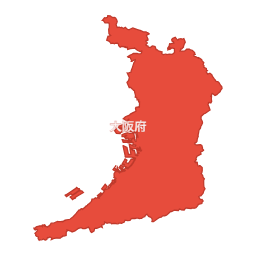
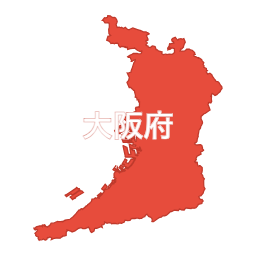
Add text size option and update default text size
- Add --text-size option to customize text size (default: 0.12)
- Update default text size from 0.048 to 0.12 (2x larger)
- Create generate-samples.sh script for automated sample generation
- Regenerate all sample icons with larger text:
  - Default style: Hokkaido, Tokyo, Osaka
  - Text-free version: Tokyo
  - Custom colors: blue Hokkaido, red Osaka

🤖 Generated with [Claude Code](https://claude.ai/code)

Changed region(s): [[0.3125, 0.4375, 0.6875, 0.5625]]

diff --git a/src/index.js b/src/index.js
@@ -14,6 +14,7 @@ class PrefectureIconGenerator {
       faceColor: options.faceColor || '#0E7A6F',
       edgeColor: options.edgeColor || '#0A5A52',
       textColor: options.textColor || '#FFFFFF',
+      textSize: options.textSize || 0.12,
       outputDir: options.outputDir || 'icons',
       generateSVG: options.generateSVG || false,
       padding: options.padding || 0.07,
@@ -382,7 +383,7 @@ class PrefectureIconGenerator {
       ctx.shadowBlur = 0;
       
       // Set text properties
-      ctx.font = `bold ${size * 0.048}px sans-serif`;
+      ctx.font = `bold ${size * this.options.textSize}px sans-serif`;
       ctx.textAlign = 'center';
       ctx.textBaseline = 'middle';
       
@@ -444,7 +445,7 @@ class PrefectureIconGenerator {
 
     // Generate text element only if showText is enabled
     const textElement = this.options.showText ? `
-  <text x="${cx}" y="${cy}" fill="${this.options.textColor}" stroke="${this.options.edgeColor}" stroke-width="${size * 0.002}" font-size="${size * 0.048}" font-weight="bold" text-anchor="middle" dominant-baseline="middle" font-family="sans-serif">
+  <text x="${cx}" y="${cy}" fill="${this.options.textColor}" stroke="${this.options.edgeColor}" stroke-width="${size * 0.002}" font-size="${size * this.options.textSize}" font-weight="bold" text-anchor="middle" dominant-baseline="middle" font-family="sans-serif">
     ${prefName}
   </text>` : '';
 

diff --git a/bin/cli.js b/bin/cli.js
@@ -16,6 +16,7 @@ program
   .option('--face <color>', 'Face color', '#0E7A6F')
   .option('--edge <color>', 'Edge color', '#0A5A52')
   .option('--text <color>', 'Text color', '#FFFFFF')
+  .option('--text-size <number>', 'Text size multiplier (default: 0.12)', parseFloat, 0.12)
   .option('--svg', 'Also generate SVG files')
   .option('--prefecture <names>', 'Generate only specified prefectures (comma-separated names or codes)')
   .option('--hide-text', 'Generate icons without prefecture name text')
@@ -44,6 +45,7 @@ async function main() {
       faceColor: options.face,
       edgeColor: options.edge,
       textColor: options.text,
+      textSize: options.textSize,
       outputDir: options.out,
       generateSVG: options.svg,
       targetPrefectures: options.prefecture,
